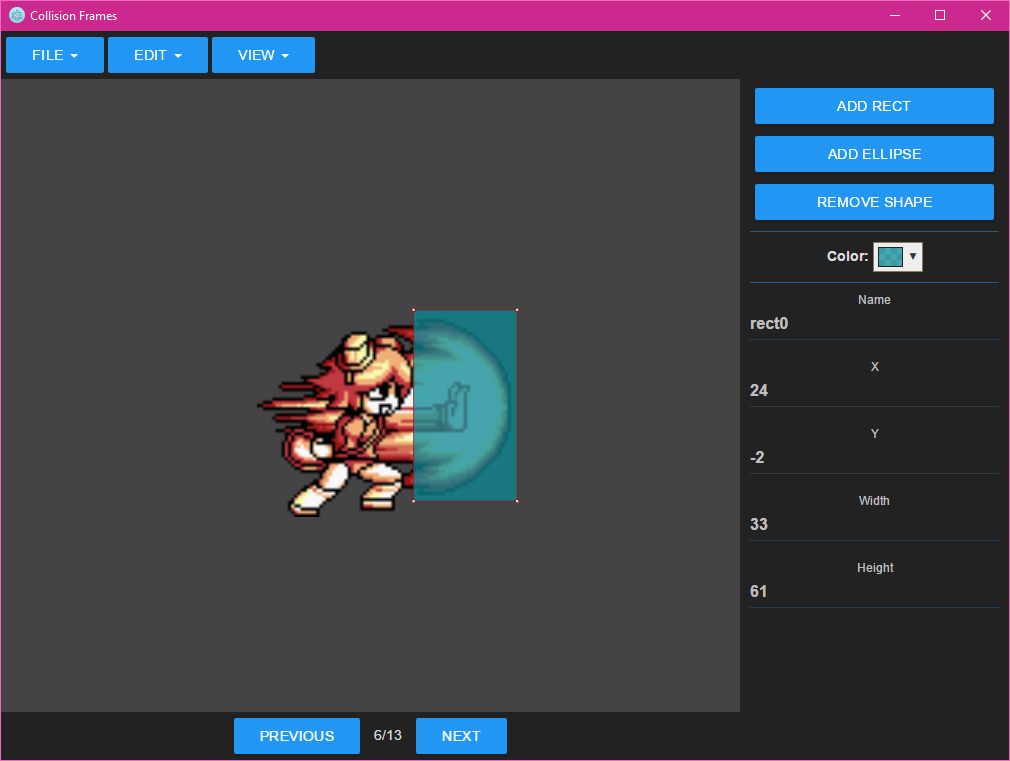
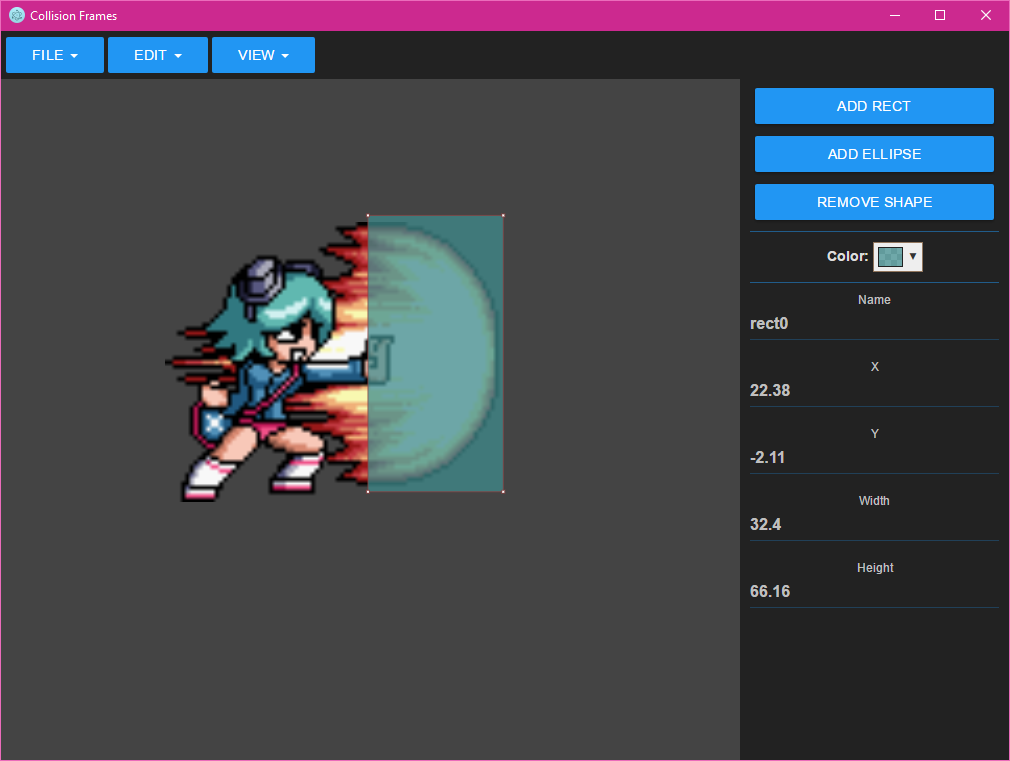
Changed x,y, with, and height inputs to round to two decimal places instead of rounding to an integer.

diff --git a/js/guiControls.js b/js/guiControls.js
@@ -24,7 +24,7 @@ function onWidthKeyUp(event) {
     return;
   }
   
-  var newWidth = parseInt($("#widthInput").val());
+  var newWidth = parseFloat($("#widthInput").val());
   
   if (isNaN(newWidth)) {
     return;
@@ -44,7 +44,7 @@ function onWidthKeyUp(event) {
 }
 
 function onWidthChange(event) { 
-  var newWidth = parseInt($("#widthInput").val());
+  var newWidth = parseFloat($("#widthInput").val());
   
   if (isNaN(newWidth)) {
     return;
@@ -70,14 +70,14 @@ function onHeightKeyUp(event) {
     return;
   }
   
-  var newHeight =  parseInt($("#heightInput").val());
+  var newHeight =  parseFloat($("#heightInput").val());
   
   if (isNaN(newHeight)) {
     return;
   }
   
   var bounds = globals.selected.path.bounds.clone();
-  bounds.height = parseInt(newHeight);
+  bounds.height = newHeight;
   
   var center = globals.selected.path.position.clone();
   center.x -= bounds.width / 2;
@@ -90,14 +90,14 @@ function onHeightKeyUp(event) {
 }
 
 function onHeightChange(event) { 
-  var newHeight =  parseInt($("#heightInput").val());
+  var newHeight =  parseFloat($("#heightInput").val());
   
   if (isNaN(newHeight)) {
     return;
   }
   
   var bounds = globals.selected.path.bounds.clone();
-  bounds.height = parseInt(newHeight);
+  bounds.height = newHeight;
   
   var center = globals.selected.path.position.clone();
   center.x -= bounds.width / 2;
@@ -116,7 +116,7 @@ function onXKeyUp(event) {
     return;
   }
   
-  var newX = parseInt($("#xInput").val());
+  var newX = parseFloat($("#xInput").val());
   
   if (isNaN(newX)) {
     return;
@@ -135,7 +135,7 @@ function onXKeyUp(event) {
 }
 
 function onXChange(event) { 
-  var newX = parseInt($("#xInput").val());
+  var newX = parseFloat($("#xInput").val());
   
   if (isNaN(newX)) {
     return;
@@ -160,7 +160,7 @@ function onYKeyUp(event) {
     return;
   }
   
-  var newY = parseInt($("#yInput").val());
+  var newY = parseFloat($("#yInput").val());
   
   if (isNaN(newY)) {
     return;
@@ -179,7 +179,7 @@ function onYKeyUp(event) {
 }
 
 function onYChange(event) { 
-  var newY = parseInt($("#yInput").val());
+  var newY = parseFloat($("#yInput").val());
   
   if (isNaN(newY)) {
     return;
@@ -670,7 +670,10 @@ function previewAnimation() {
 }
 
 function updatePathPosition() { 
-  var position = globals.selected.path.position.round();
+  var position = globals.selected.path.position;
+  
+  position.x = Math.round(position.x * 100) / 100;
+  position.y = Math.round(position.y * 100) / 100;
   
   $("#xInput").val(position.x);
   $("#yInput").val(position.y);
@@ -679,8 +682,8 @@ function updatePathPosition() {
 function updatePathDimensions() { 
   var bounds = globals.selected.path.bounds;
   
-  bounds.width = Math.round(bounds.width);
-  bounds.height = Math.round(bounds.height);
+  bounds.width = Math.round(bounds.width * 100) / 100;
+  bounds.height = Math.round(bounds.height * 100) / 100;
   
   $("#widthInput").val(bounds.width);
   $("#heightInput").val(bounds.height);

diff --git a/index.html b/index.html
@@ -97,25 +97,25 @@
         <div class="mui-divider" style="margin-top: 10px; margin-bottom: 10px; background-color: rgba(33, 150, 243, 0.5);"></div>
         
         <li class="mui-textfield">
-          <input type="text" id="nameInput">
+          <input type="text" id="nameInput" >
           <label>Name</label>
         </li>
         
         <li class="mui-textfield">
-          <input type="number" id="xInput">
+          <input type="number" id="xInput" step="any">
           <label>X</label>
         </li>
         <li class="mui-textfield">
-          <input type="number" id="yInput">
+          <input type="number" id="yInput" step="any">
           <label>Y</label>
         </li>
         
         <li class="mui-textfield">
-          <input type="number" id="widthInput">
+          <input type="number" id="widthInput" step="any">
           <label>Width</label>
         </li>
         <li class="mui-textfield">
-          <input type="number" id="heightInput">
+          <input type="number" id="heightInput" step="any">
           <label>Height</label>
         </li>
       </span>

diff --git a/js/app.js b/js/app.js
@@ -267,9 +267,6 @@ function dragLeftRight(firstPoints, secondPoints, delta) {
     
     firstPoint.x += dif;
     secondPoint.x -= dif;
-    
-    firstPoint.x = Math.round(firstPoint.x);
-    secondPoint.x = Math.round(secondPoint.x);
   }
   
   updatePathDimensions();
@@ -330,9 +327,6 @@ function dragUpDown(firstPoints, secondPoints, delta) {
     
     firstPoint.y += dif;
     secondPoint.y -= dif;
-    
-    firstPoint.y = Math.round(firstPoint.y);
-    secondPoint.y = Math.round(secondPoint.y);
   }
   
   updatePathDimensions();
@@ -382,9 +376,6 @@ function onMouseDrag(event) {
     else {
       globals.selected.draggable.x += event.delta.x;
       globals.selected.draggable.y += event.delta.y;
-      
-      globals.selected.draggable.x = Math.round(globals.selected.draggable.x);
-      globals.selected.draggable.y = Math.round(globals.selected.draggable.y);
       
       updatePathPosition();
     }

diff --git a/README.md b/README.md
@@ -4,7 +4,7 @@ This is a small program made with Electron to help setup collision shapes for an
 
 ---
 
-Preview:
+## Preview: ##
 
 ![Preview image of Collision Frames application](/preview.png?raw=true)
 
